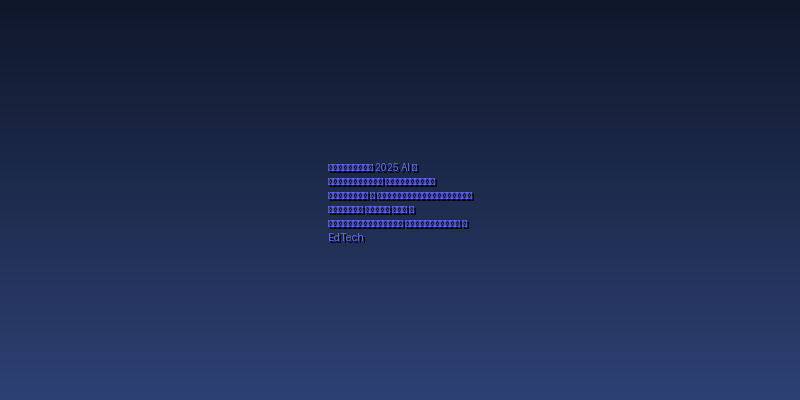
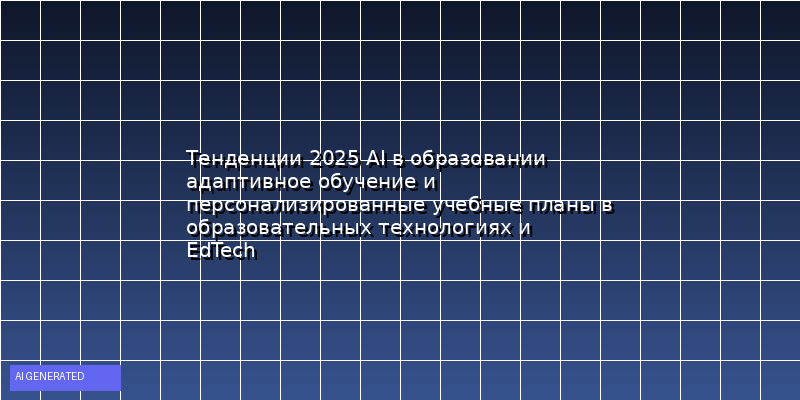
🤖 Автогенерация статьи и изображений [skip ci]

diff --git a/content/posts/2025-08-31--2025-ai-edtech.md b/content/posts/2025-08-31--2025-ai-edtech.md
@@ -1,0 +1,46 @@
+---
+title: "Тенденции 2025 AI в образовании адаптивное обучение и персонализированные учебные планы в образовательных технологиях и EdTech"
+date: 2025-08-31T18:13:30Z
+draft: false
+image: "assets/images/posts/-2025-ai-edtech.png"
+ai_model: "Groq-llama-3.1-8b-instant"
+tags: ["ai", "технологии", "2025"]
+categories: ["Искусственный интеллект"]
+summary: "Автоматически сгенерированная статья о тенденциях AI в 2025 году"
+---
+
+**Тенденции 2025: AI в образовании - адаптивное обучение и персонализированные учебные планы**
+
+В последние годы образовательные технологии (EdTech) переживают бурное развитие, и одним из ключевых направлений этого прогресса является интеграция искусственного интеллекта (AI) в образовательные процессы. В этом году, в частности, ожидается значительное увеличение использования AI в образовании, что приведет к появлению новых возможностей для адаптивного обучения и персонализированных учебных планов. В этой статье мы рассмотрим основные тенденции 2025 года в использовании AI в образовании и покажем, как они могут повлиять на будущее образования.
+
+**Адаптивное обучение**
+
+Адаптивное обучение - это подход, который позволяет каждому ученику обучаться по индивидуальному графику, основанному на его навыках, умениях и предпочтениях. AI может помочь в этом процессе, анализируя данные о поведении и результатах ученика, чтобы предлагать персонализированные рекомендации и материалы.
+
+Одним из примеров адаптивного обучения является платформа Coursera, которая использует AI для анализа результатов студентов и предлагает им персонализированные рекомендации по материалам и заданиям. Это позволяет студентам более эффективно использовать свое время и получать больше пользы от образовательных ресурсов.
+
+**Персонализированные учебные планы**
+
+Персонализированные учебные планы - это индивидуальные планы обучения, которые учитывают конкретные потребности и цели ученика. AI может помочь в создании этих планов, анализируя данные о поведении и результатах ученика, чтобы предлагать персонализированные рекомендации по материалам и заданиям.
+
+Одним из примеров персонализированных учебных планов является платформа DreamBox Learning, которая использует AI для создания индивидуальных учебных планов для каждого ученика, основанных на его навыках и потребностях. Это позволяет ученикам получать более эффективное образование и достигать своих целей.
+
+**Использование AI в образовании**
+
+Использование AI в образовании может иметь многочисленные преимущества, включая:
+
+* **Увеличение эффективности обучения**: AI может помочь ученикам более эффективно использовать свое время и получать больше пользы от образовательных ресурсов.
+* **Улучшение результатов**: AI может помочь ученикам достигать своих целей и улучшать свои результаты.
+* **Повышение удовлетворенности**: AI может помочь ученикам получать более удовлетворительное образование, которое соответствует их потребностям и предпочтениям.
+
+**Кейсы**
+
+Ниже приведены несколько кейсов, которые демонстрируют успешное использование AI в образовании:
+
+* **Coursera**: платформа Coursera использует AI для анализа результатов студентов и предлагает им персонализированные рекомендации по материалам и заданиям.
+* **DreamBox Learning**: платформа DreamBox Learning использует AI для создания индивидуальных учебных планов для каждого ученика, основанных на его навыках и потребностях.
+* **Knewton**: платформа Knewton использует AI для анализа результатов учеников и предлагает им персонализированные рекомендации по материалам и заданиям.
+
+**Заключение**
+
+Использование AI в образовании является быстро развивающейся областью, которая может иметь значительное влияние на будущее образования. Адаптивное обучение и персонализированные учебные планы - это два ключевых направления этого прогресса, которые могут помочь ученикам получать более эффективное и удовлетворительное образование. Мы надеемся, что эта статья поможет вам понять потенциал AI в образовании и как он может помочь в образовательных процессах.
